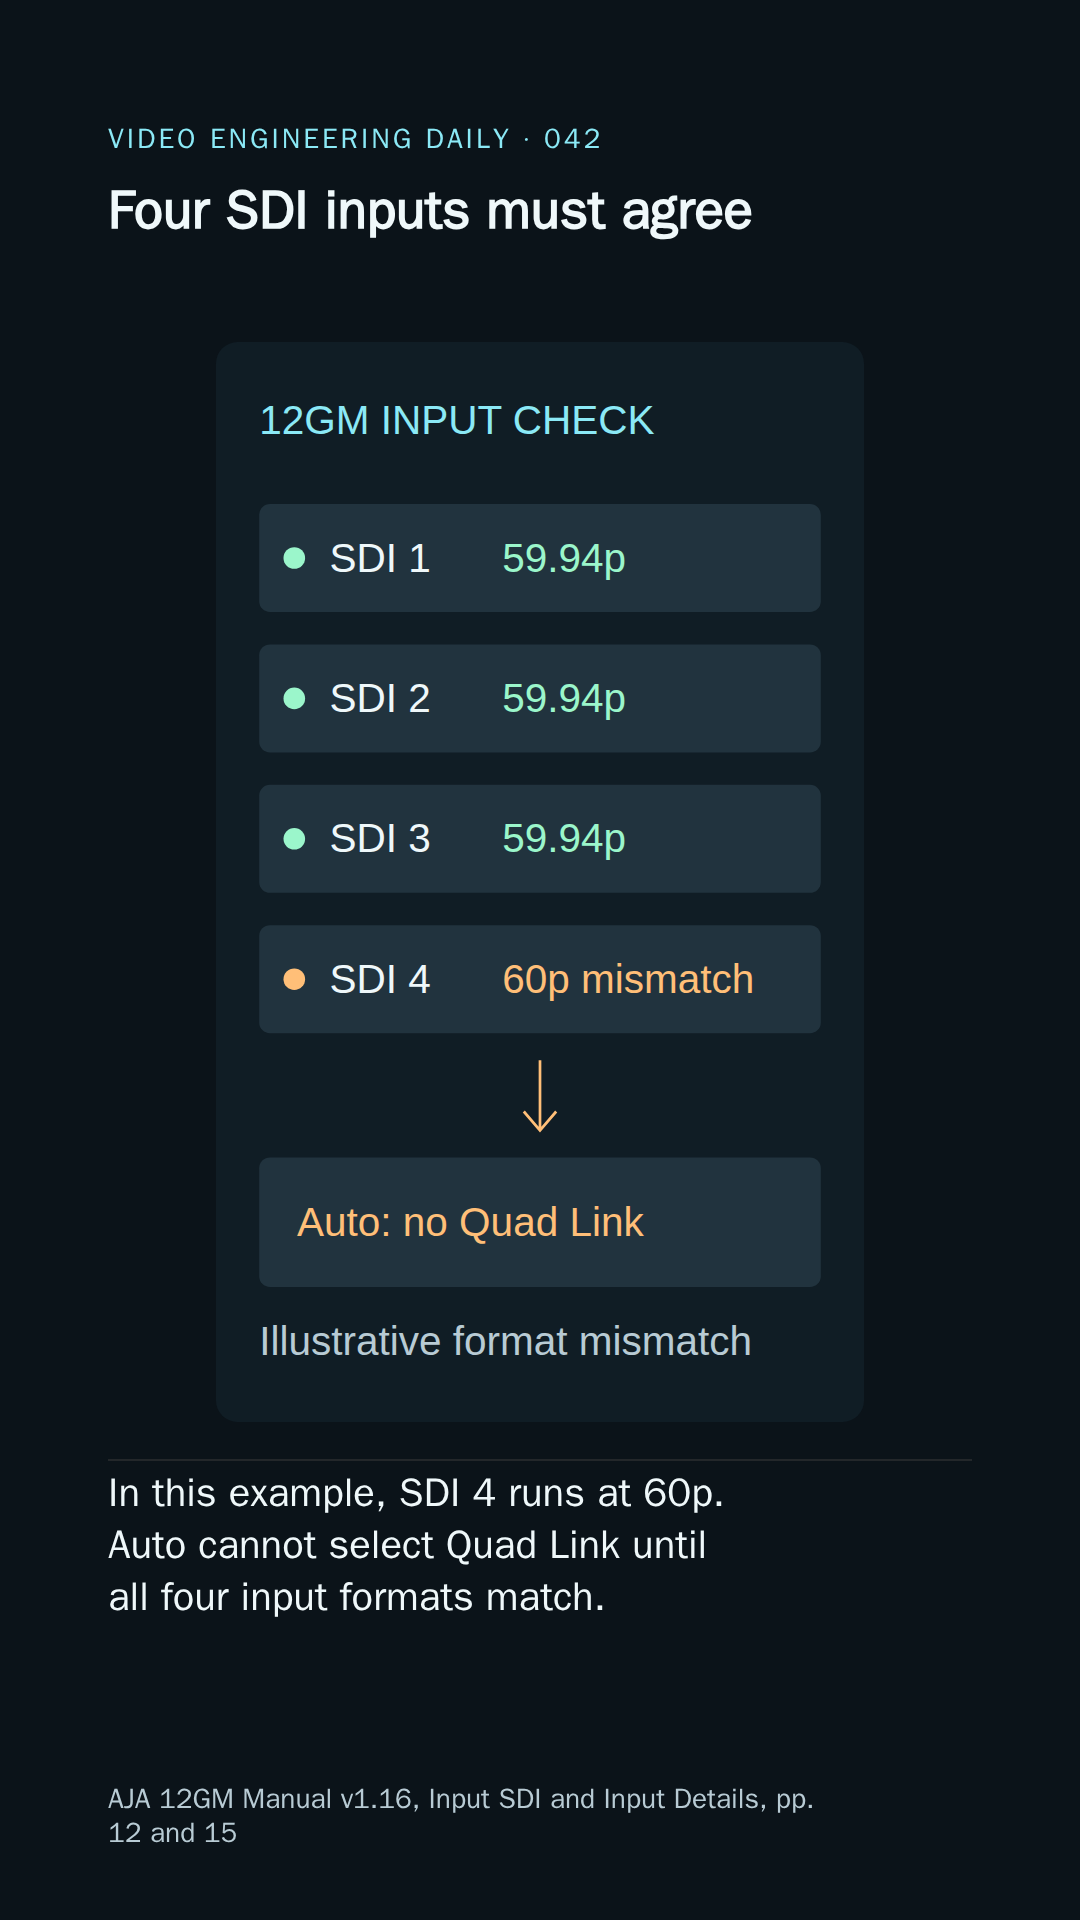
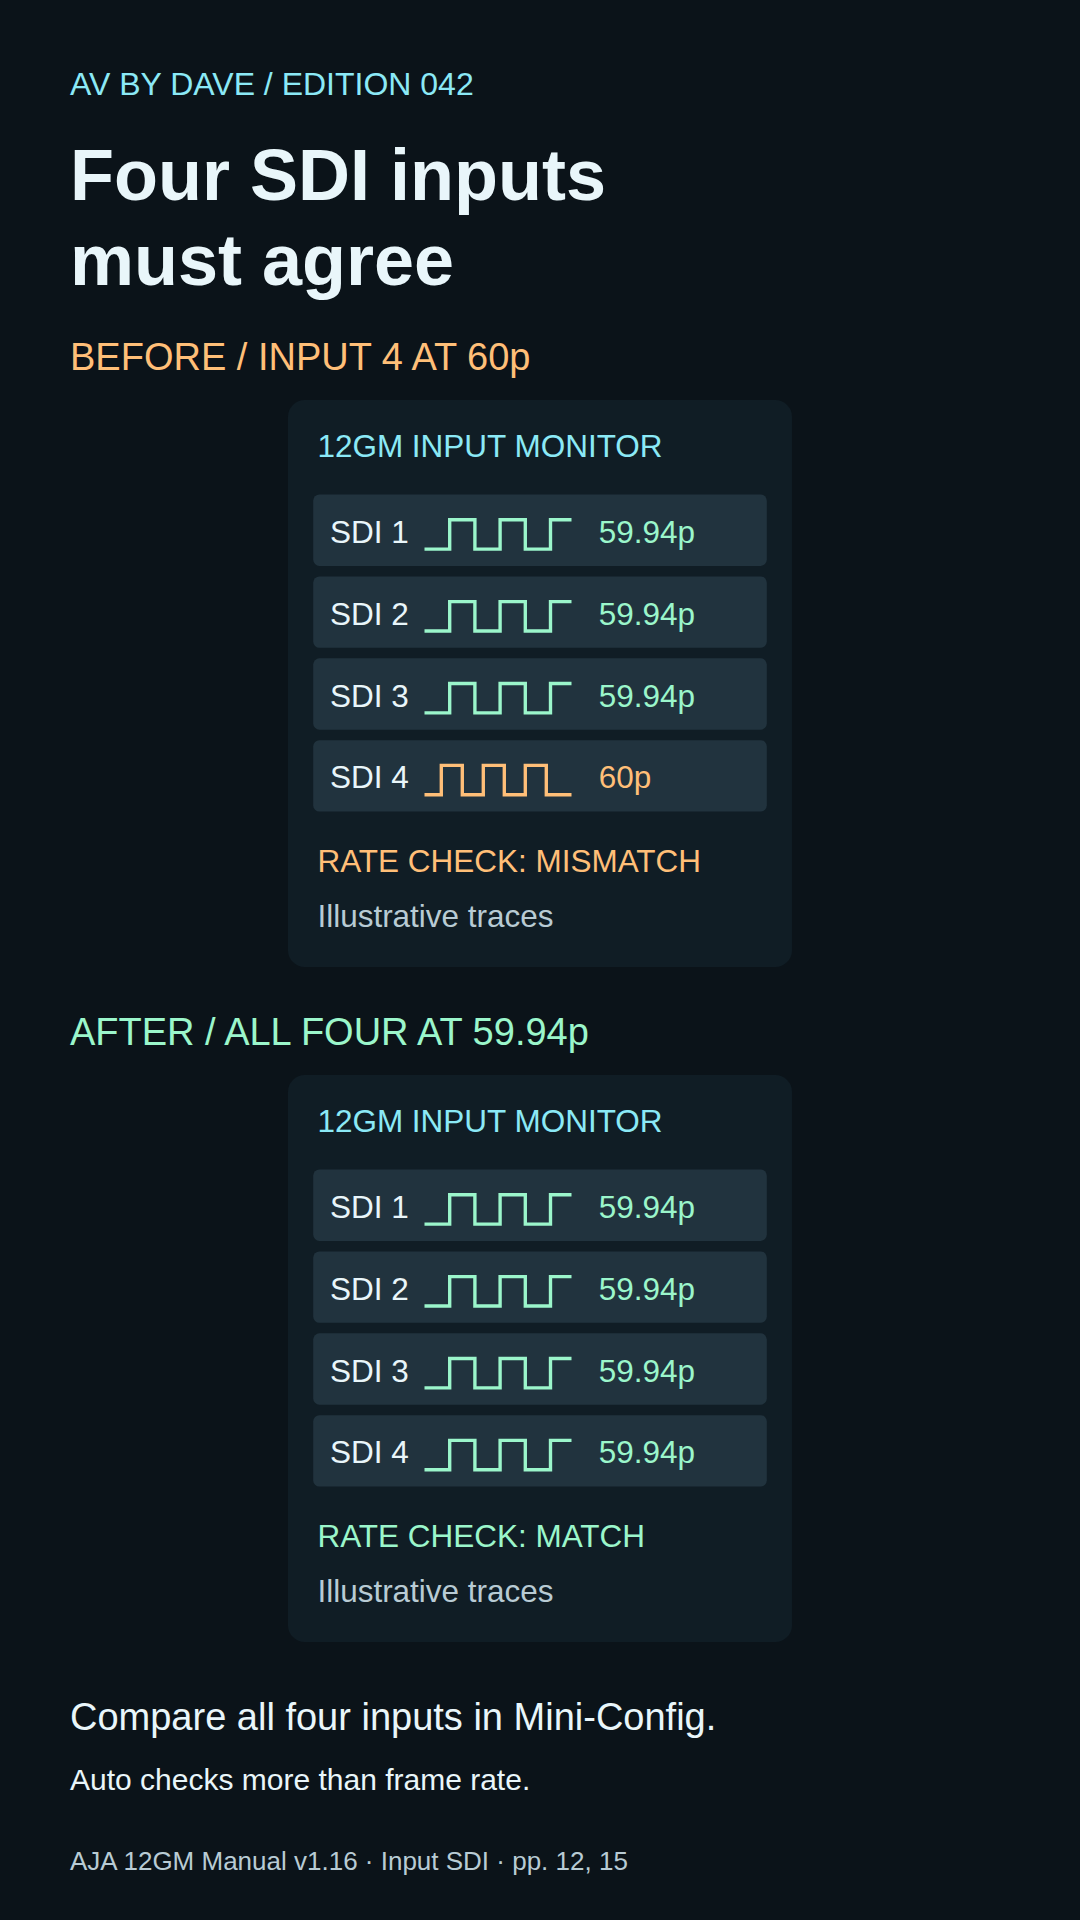
Add live input monitor and comparison card to edition 042

diff --git a/demos/engineering-daily/index.html b/demos/engineering-daily/index.html
@@ -224,6 +224,7 @@ tr:has(.entry[aria-pressed="true"]) {background:var(--surface-raised)}
 @media print {.calendarShell {display:none!important}}
 @media(max-height:330px) {.labTabs button {white-space:nowrap}.labBar {gap:4px;padding:2px 4px}.labControls .buttonRow {gap:2px}.labGuide {padding:4px 6px;gap:3px}.labGuide h3 {font-size:14px}.labGuide p {font-size:11px;line-height:1.3}.labGuide .guideFooter {gap:4px}}
 .illustration [fill][font-size]{fill:inherit; font-size:15px}.illustration text[fill="#eff8fa"]{fill:#eff8fa}.illustration text[fill="#8be9f6"]{fill:#8be9f6}.illustration text[fill="#9bf6cb"]{fill:#9bf6cb}.illustration text[fill="#ffbf78"]{fill:#ffbf78}.illustration text[fill="#b8cbd4"]{fill:#b8cbd4}
+.illustration text[fill="#e9f6fa"]{fill:#e9f6fa;font-size:15px}.editionDiagramToggle{min-height:44px;margin:4px auto 0;padding:4px 12px;font:inherit;color:var(--ink);background:var(--surface);border:1px solid var(--line);border-radius:4px}
 
 
 .app button,.app select,.app input {min-height:44px;min-width:44px}
@@ -362,9 +363,13 @@ noscript {position:fixed;inset:0;z-index:200;background:var(--surface);color:var
     "basis": "Manufacturer documentation",
     "current": true,
     "illustration": {
-      "caption": "In this example, SDI 4 runs at 60p. Auto cannot select Quad Link until all four input formats match.",
-      "body": "<rect width=\"240\" height=\"400\" rx=\"8\" fill=\"#101d25\"/><text x=\"16\" y=\"34\" fill=\"#8be9f6\" font-size=\"15\" font-weight=\"700\">12GM INPUT CHECK</text><rect x=\"16\" y=\"60\" width=\"208\" height=\"40\" rx=\"4\" fill=\"#21333e\"/><circle cx=\"29\" cy=\"80\" r=\"4\" fill=\"#9bf6cb\"/><text x=\"42\" y=\"85\" fill=\"#eff8fa\" font-size=\"15\">SDI 1</text><text x=\"106\" y=\"85\" fill=\"#9bf6cb\" font-size=\"15\">59.94p</text><rect x=\"16\" y=\"112\" width=\"208\" height=\"40\" rx=\"4\" fill=\"#21333e\"/><circle cx=\"29\" cy=\"132\" r=\"4\" fill=\"#9bf6cb\"/><text x=\"42\" y=\"137\" fill=\"#eff8fa\" font-size=\"15\">SDI 2</text><text x=\"106\" y=\"137\" fill=\"#9bf6cb\" font-size=\"15\">59.94p</text><rect x=\"16\" y=\"164\" width=\"208\" height=\"40\" rx=\"4\" fill=\"#21333e\"/><circle cx=\"29\" cy=\"184\" r=\"4\" fill=\"#9bf6cb\"/><text x=\"42\" y=\"189\" fill=\"#eff8fa\" font-size=\"15\">SDI 3</text><text x=\"106\" y=\"189\" fill=\"#9bf6cb\" font-size=\"15\">59.94p</text><rect x=\"16\" y=\"216\" width=\"208\" height=\"40\" rx=\"4\" fill=\"#21333e\"/><circle cx=\"29\" cy=\"236\" r=\"4\" fill=\"#ffbf78\"/><text x=\"42\" y=\"241\" fill=\"#eff8fa\" font-size=\"15\">SDI 4</text><text x=\"106\" y=\"241\" fill=\"#ffbf78\" font-size=\"15\">60p mismatch</text><path d=\"M120 266v26m-6-7 6 7 6-7\" stroke=\"#ffbf78\" fill=\"none\"/><rect x=\"16\" y=\"302\" width=\"208\" height=\"48\" rx=\"4\" fill=\"#21333e\"/><text x=\"30\" y=\"331\" fill=\"#ffbf78\" font-size=\"15\" font-weight=\"700\">Auto: no Quad Link</text><text x=\"16\" y=\"375\" fill=\"#b8cbd4\" font-size=\"15\">Illustrative format mismatch</text>",
-      "viewBox": "0 0 240 400"
+      "viewBox": "0 0 240 270",
+      "body": "<rect width=\"240\" height=\"270\" rx=\"8\" fill=\"#101d25\"/><text x=\"14\" y=\"27\" fill=\"#8be9f6\" font-size=\"15\">12GM INPUT MONITOR</text><rect x=\"12\" y=\"45\" width=\"216\" height=\"34\" rx=\"3\" fill=\"#21333e\"/><path d=\"M65 26h12V12h12v14h12V12h12v14h12V12h10\" transform=\"translate(0 45)\" stroke=\"#9bf6cb\" stroke-width=\"1.6\" fill=\"none\"/><text x=\"20\" y=\"68\" fill=\"#e9f6fa\" font-size=\"15\">SDI 1</text><text x=\"148\" y=\"68\" fill=\"#9bf6cb\" font-size=\"15\">59.94p</text><rect x=\"12\" y=\"84\" width=\"216\" height=\"34\" rx=\"3\" fill=\"#21333e\"/><path d=\"M65 26h12V12h12v14h12V12h12v14h12V12h10\" transform=\"translate(0 84)\" stroke=\"#9bf6cb\" stroke-width=\"1.6\" fill=\"none\"/><text x=\"20\" y=\"107\" fill=\"#e9f6fa\" font-size=\"15\">SDI 2</text><text x=\"148\" y=\"107\" fill=\"#9bf6cb\" font-size=\"15\">59.94p</text><rect x=\"12\" y=\"123\" width=\"216\" height=\"34\" rx=\"3\" fill=\"#21333e\"/><path d=\"M65 26h12V12h12v14h12V12h12v14h12V12h10\" transform=\"translate(0 123)\" stroke=\"#9bf6cb\" stroke-width=\"1.6\" fill=\"none\"/><text x=\"20\" y=\"146\" fill=\"#e9f6fa\" font-size=\"15\">SDI 3</text><text x=\"148\" y=\"146\" fill=\"#9bf6cb\" font-size=\"15\">59.94p</text><rect x=\"12\" y=\"162\" width=\"216\" height=\"34\" rx=\"3\" fill=\"#21333e\"/><path d=\"M65 26h8V12h10v14h10V12h10v14h10V12h10v14h12\" transform=\"translate(0 162)\" stroke=\"#ffbf78\" stroke-width=\"1.6\" fill=\"none\"/><text x=\"20\" y=\"185\" fill=\"#e9f6fa\" font-size=\"15\">SDI 4</text><text x=\"148\" y=\"185\" fill=\"#ffbf78\" font-size=\"15\">60p</text><text x=\"14\" y=\"225\" fill=\"#ffbf78\" font-size=\"15\">RATE CHECK: MISMATCH</text><text x=\"14\" y=\"251\" fill=\"#b8cbd4\" font-size=\"15\">Illustrative traces</text>",
+      "caption": "Input 4 is at 60p. Auto cannot select Quad Link with mismatched frame rates.",
+      "alternateBody": "<rect width=\"240\" height=\"270\" rx=\"8\" fill=\"#101d25\"/><text x=\"14\" y=\"27\" fill=\"#8be9f6\" font-size=\"15\">12GM INPUT MONITOR</text><rect x=\"12\" y=\"45\" width=\"216\" height=\"34\" rx=\"3\" fill=\"#21333e\"/><path d=\"M65 26h12V12h12v14h12V12h12v14h12V12h10\" transform=\"translate(0 45)\" stroke=\"#9bf6cb\" stroke-width=\"1.6\" fill=\"none\"/><text x=\"20\" y=\"68\" fill=\"#e9f6fa\" font-size=\"15\">SDI 1</text><text x=\"148\" y=\"68\" fill=\"#9bf6cb\" font-size=\"15\">59.94p</text><rect x=\"12\" y=\"84\" width=\"216\" height=\"34\" rx=\"3\" fill=\"#21333e\"/><path d=\"M65 26h12V12h12v14h12V12h12v14h12V12h10\" transform=\"translate(0 84)\" stroke=\"#9bf6cb\" stroke-width=\"1.6\" fill=\"none\"/><text x=\"20\" y=\"107\" fill=\"#e9f6fa\" font-size=\"15\">SDI 2</text><text x=\"148\" y=\"107\" fill=\"#9bf6cb\" font-size=\"15\">59.94p</text><rect x=\"12\" y=\"123\" width=\"216\" height=\"34\" rx=\"3\" fill=\"#21333e\"/><path d=\"M65 26h12V12h12v14h12V12h12v14h12V12h10\" transform=\"translate(0 123)\" stroke=\"#9bf6cb\" stroke-width=\"1.6\" fill=\"none\"/><text x=\"20\" y=\"146\" fill=\"#e9f6fa\" font-size=\"15\">SDI 3</text><text x=\"148\" y=\"146\" fill=\"#9bf6cb\" font-size=\"15\">59.94p</text><rect x=\"12\" y=\"162\" width=\"216\" height=\"34\" rx=\"3\" fill=\"#21333e\"/><path d=\"M65 26h12V12h12v14h12V12h12v14h12V12h10\" transform=\"translate(0 162)\" stroke=\"#9bf6cb\" stroke-width=\"1.6\" fill=\"none\"/><text x=\"20\" y=\"185\" fill=\"#e9f6fa\" font-size=\"15\">SDI 4</text><text x=\"148\" y=\"185\" fill=\"#9bf6cb\" font-size=\"15\">59.94p</text><text x=\"14\" y=\"225\" fill=\"#9bf6cb\" font-size=\"15\">RATE CHECK: MATCH</text><text x=\"14\" y=\"251\" fill=\"#b8cbd4\" font-size=\"15\">Illustrative traces</text>",
+      "alternateCaption": "All four frame rates now match. Auto can select Quad Link if the other required parameters also match.",
+      "toggleLabel": "Set input 4 to 59.94p",
+      "resetLabel": "Restore input 4 to 60p"
     }
   },
   {
@@ -1246,6 +1251,23 @@ noscript {position:fixed;inset:0;z-index:200;background:var(--surface);color:var
       caption.textContent = drawing ? drawing.caption : `Illustration pending for ${fact.title}.`;
       // Replace immediately: no delayed callbacks can restore an earlier edition.
       figure.replaceChildren(svg, caption);
+      const alternate = drawing && parseIllustration({ body: drawing.alternateBody, caption: drawing.alternateCaption });
+      if (alternate) {
+        const toggle = document.createElement("button");
+        toggle.type = "button";
+        toggle.className = "editionDiagramToggle";
+        toggle.textContent = drawing.toggleLabel;
+        caption.setAttribute("aria-live", "polite");
+        let matched = false;
+        toggle.addEventListener("click", () => {
+          matched = !matched;
+          const state = matched ? alternate : content;
+          svg.replaceChildren(...Array.from(state.childNodes, node => document.importNode(node, true)));
+          caption.textContent = matched ? drawing.alternateCaption : drawing.caption;
+          toggle.textContent = matched ? drawing.resetLabel : drawing.toggleLabel;
+        });
+        figure.append(toggle);
+      }
       figure.dataset.edition = String(fact.id);
     };
 

diff --git a/docs/engineering-daily.md b/docs/engineering-daily.md
@@ -23,3 +23,5 @@ The parent demos hub uses the existing public subject reader for Daily, Frame sy
 ## AV by Dave Blog
 
 The blog gives AV by Dave readers the same edition library, calendar, diagrams and Signal lab at https://avbydave.com/blog/. Pages stages this view from the verified daily snapshot, so the existing authoring command and schedule feed both addresses. Edition data and card bytes are shared. The existing System by Dave archive continues to serve old edition links. Acceptance checks both routes, archive and asset parity, and the standard responsive reader checks.
+
+For regular editions, put the initial illustration in `body` and the changed state in `alternateBody`. Supply `alternateCaption`, `toggleLabel`, and `resetLabel`. Both drawings use the same viewBox and SVG allowlist. Verify both states using the keyboard and show both in the story card with a practical takeaway.

diff --git a/CHANGELOG.md b/CHANGELOG.md
@@ -1,5 +1,9 @@
 # Changelog
 
+## 2026-11-28 | Interactive Edition 042
+
+- Edition 042 adds a reversible SDI input monitor and a before-and-after story card.
+
 ## November 28, 2026. Cross-Pollinate header at large phone text sizes
 
 - Keeps the Cross-Pollinate title, date card and top bar fully on screen when a phone's system text size is enlarged. The title no longer cuts off at "Words in bloc", and the date card moves to its own row instead of running past the right edge.
